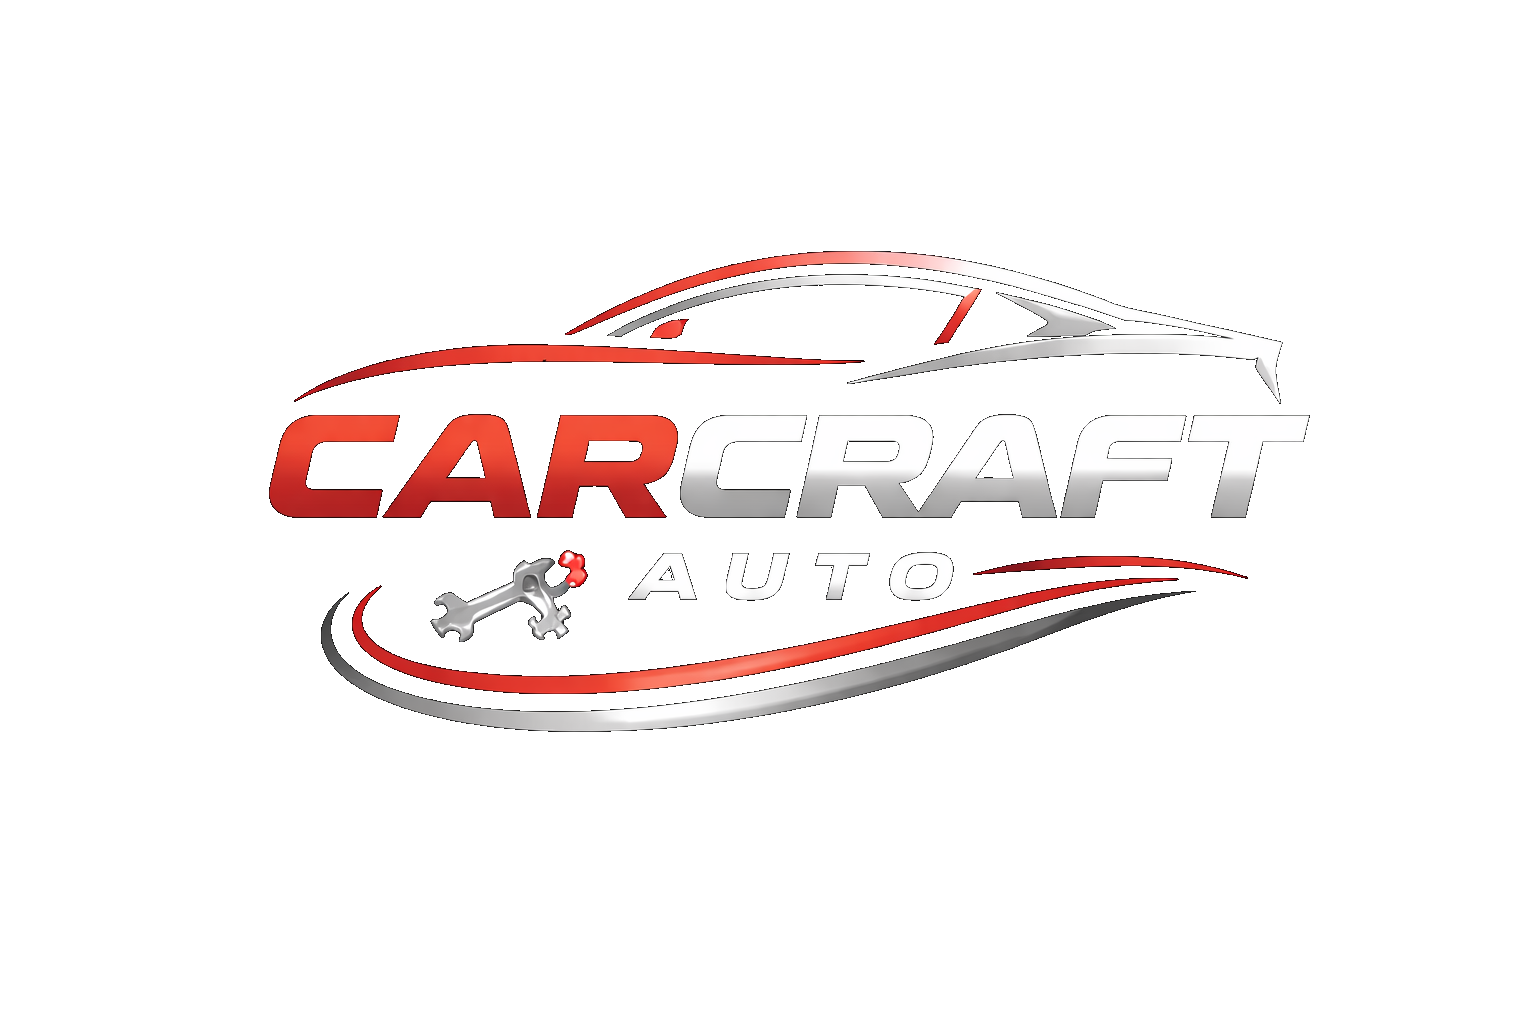
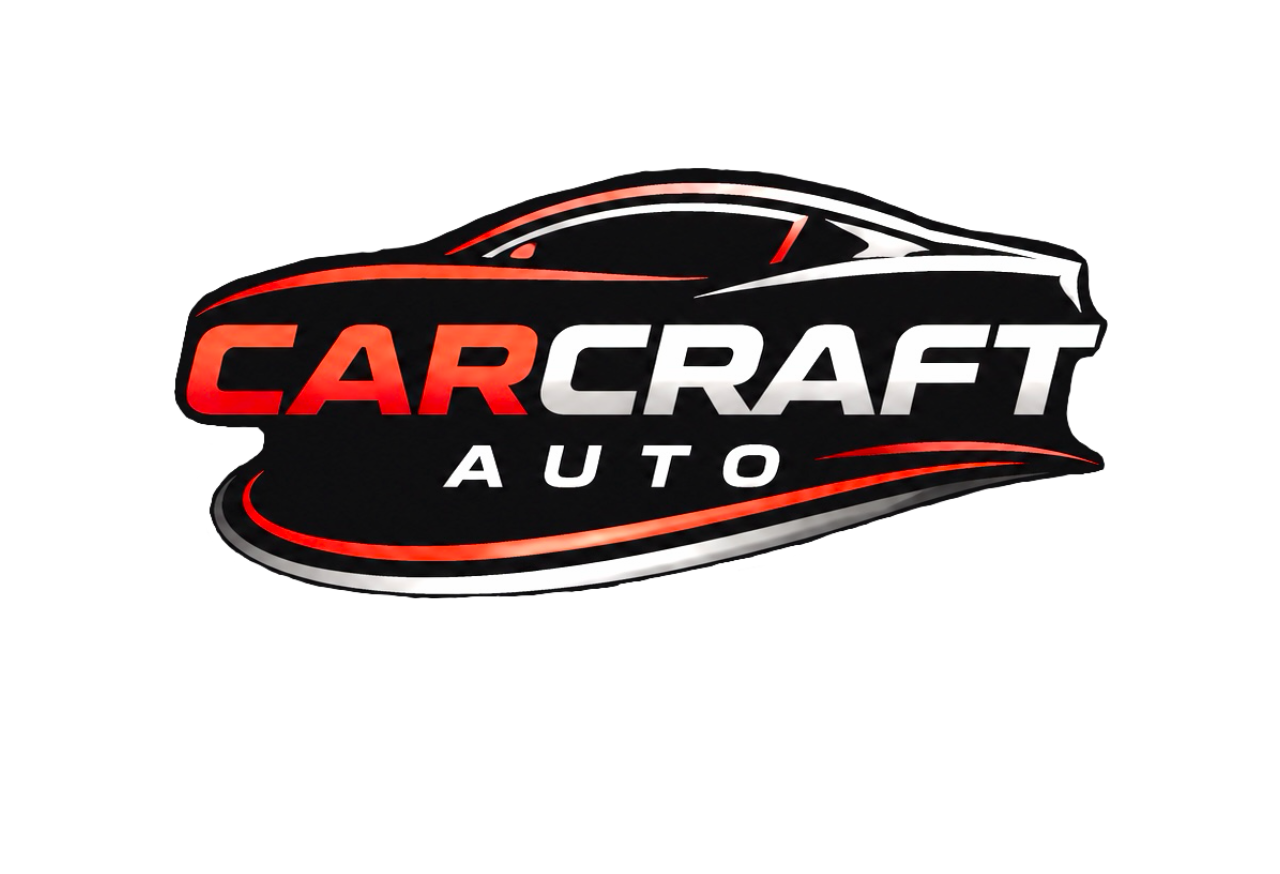
Add files via upload

Changed region(s): [[0.125, 0.1854, 0.875, 0.7414]]

diff --git a/landing-page.html b/landing-page.html
@@ -130,6 +130,22 @@ body{
   font-size:12px;
   color:var(--muted);
 }
+.powered-by{
+  display:block;
+  margin-top:6px;
+  font-size:12px;
+  color:var(--muted);
+}
+
+.powered-by a{
+  color:var(--red);
+  text-decoration:none;
+  font-weight:700;
+}
+
+.powered-by a:hover{
+  color:#b92218;
+}
 </style>
 </head>
 
@@ -169,7 +185,12 @@ body{
 
   <div class="footer">
     West Hartford, CT · Since 2001
-  </div>
+  <br>
+  <br>
+  <span class="powered-by">
+    Powered by <a href="https://reimagebs.com" target="_blank">Powered By RE IMAGE Business Solutions</a>
+  </span>
+</div>
 
 </div>
 